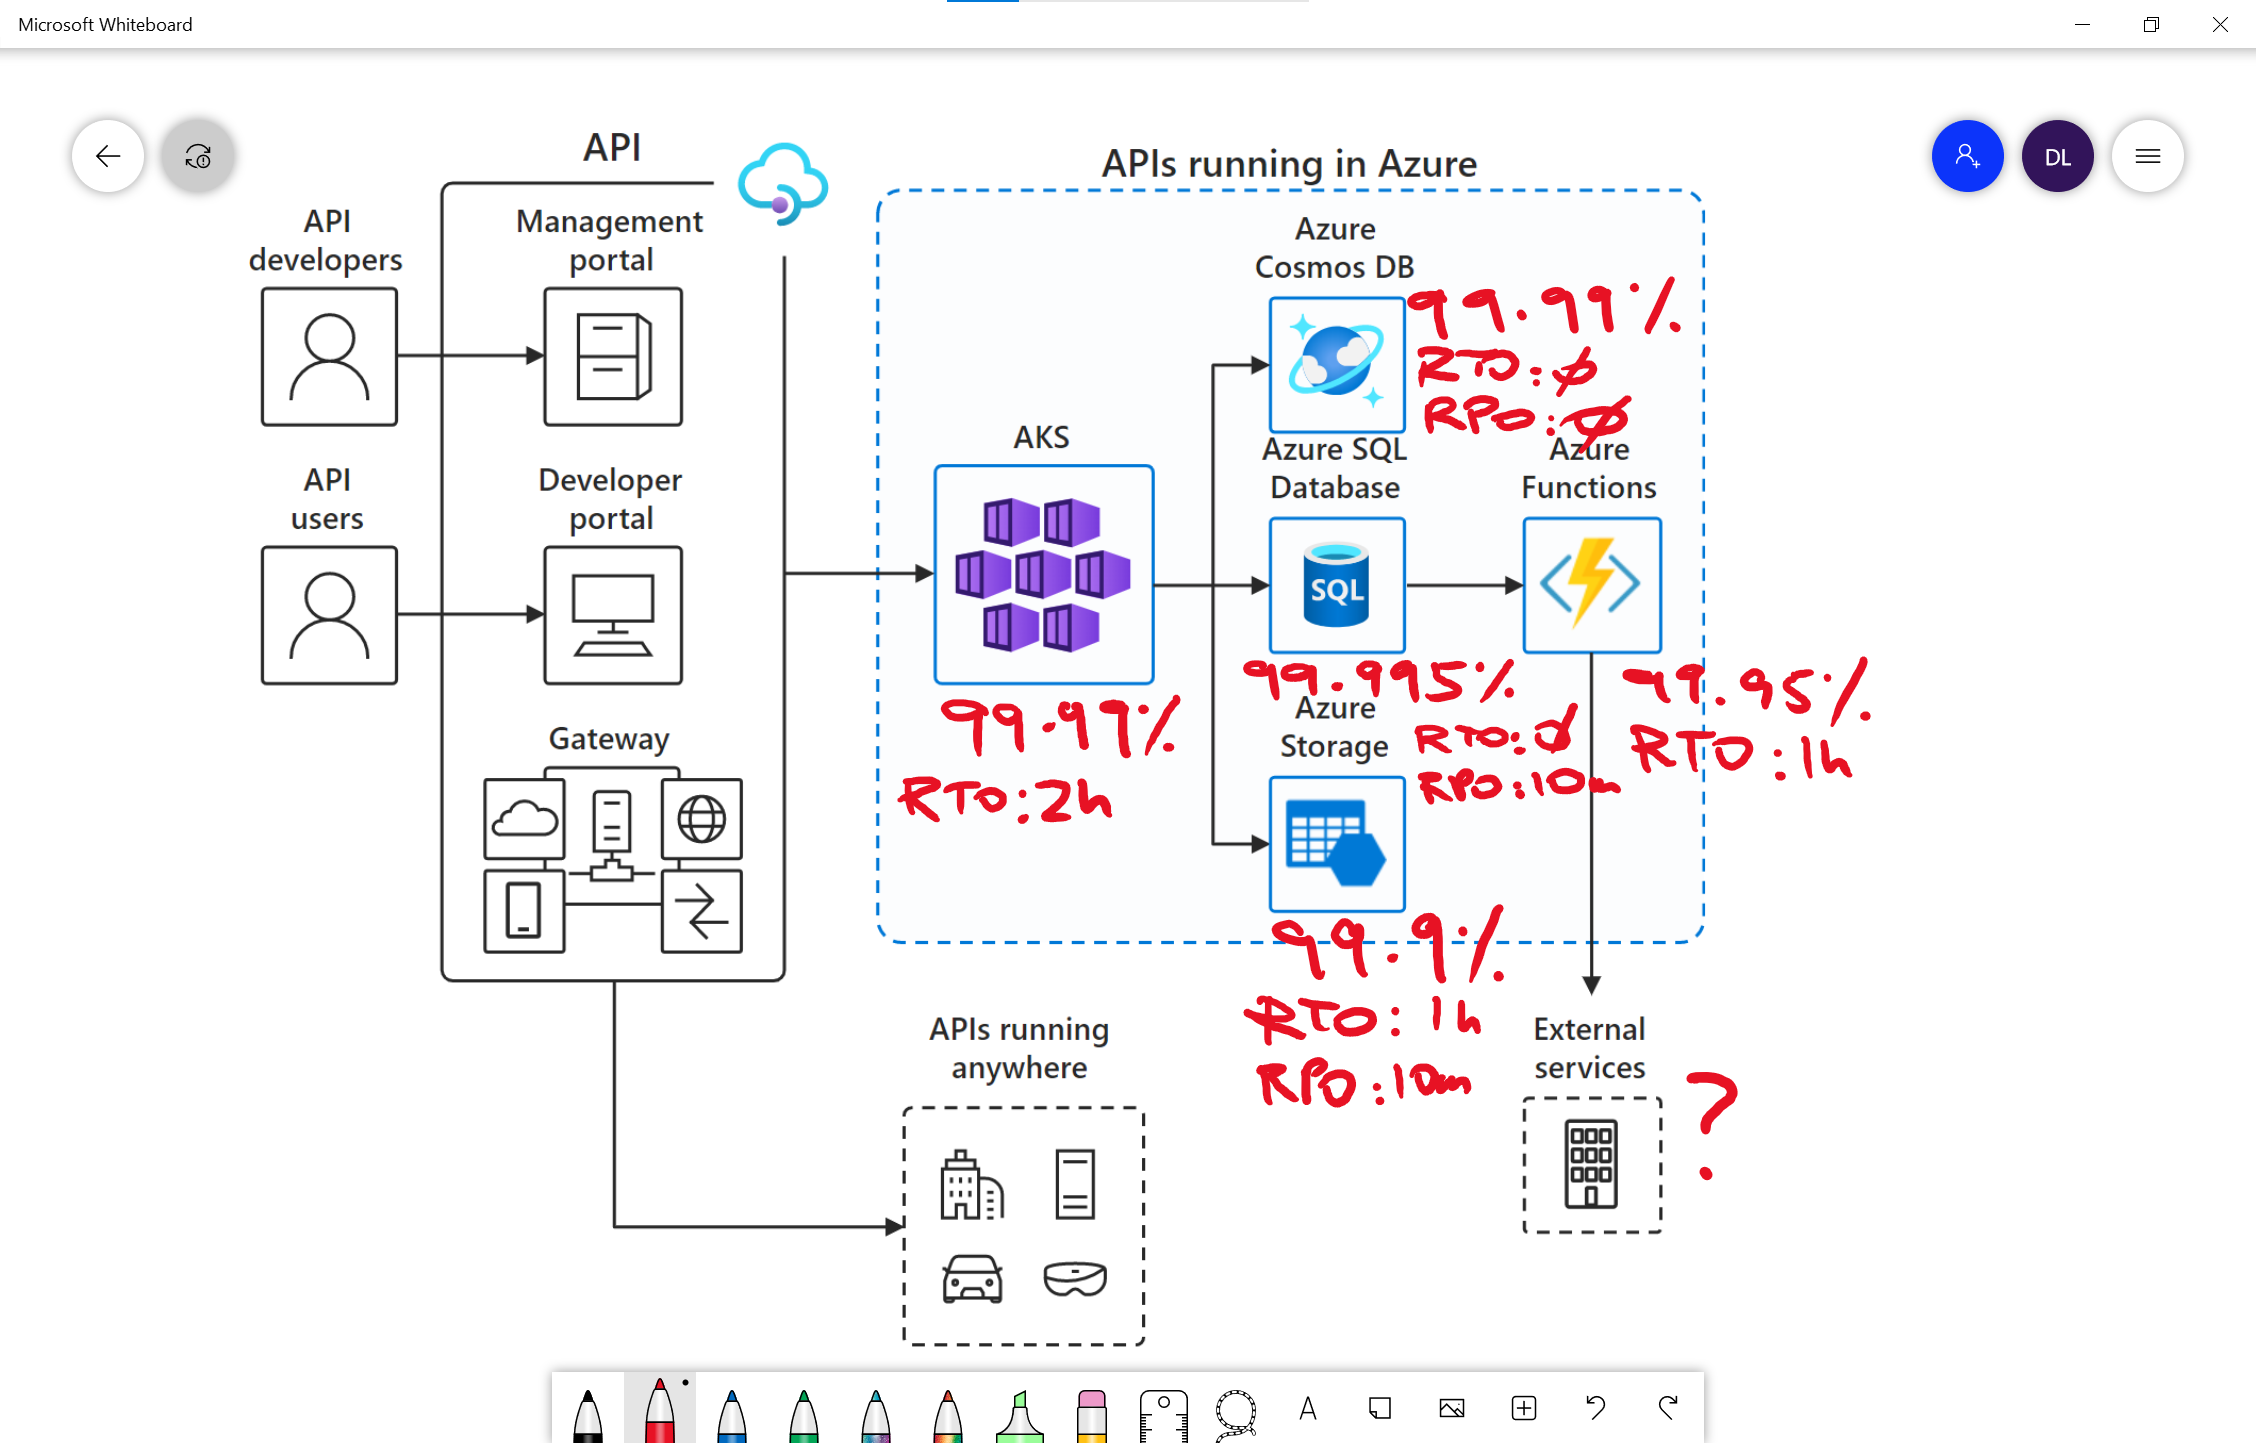
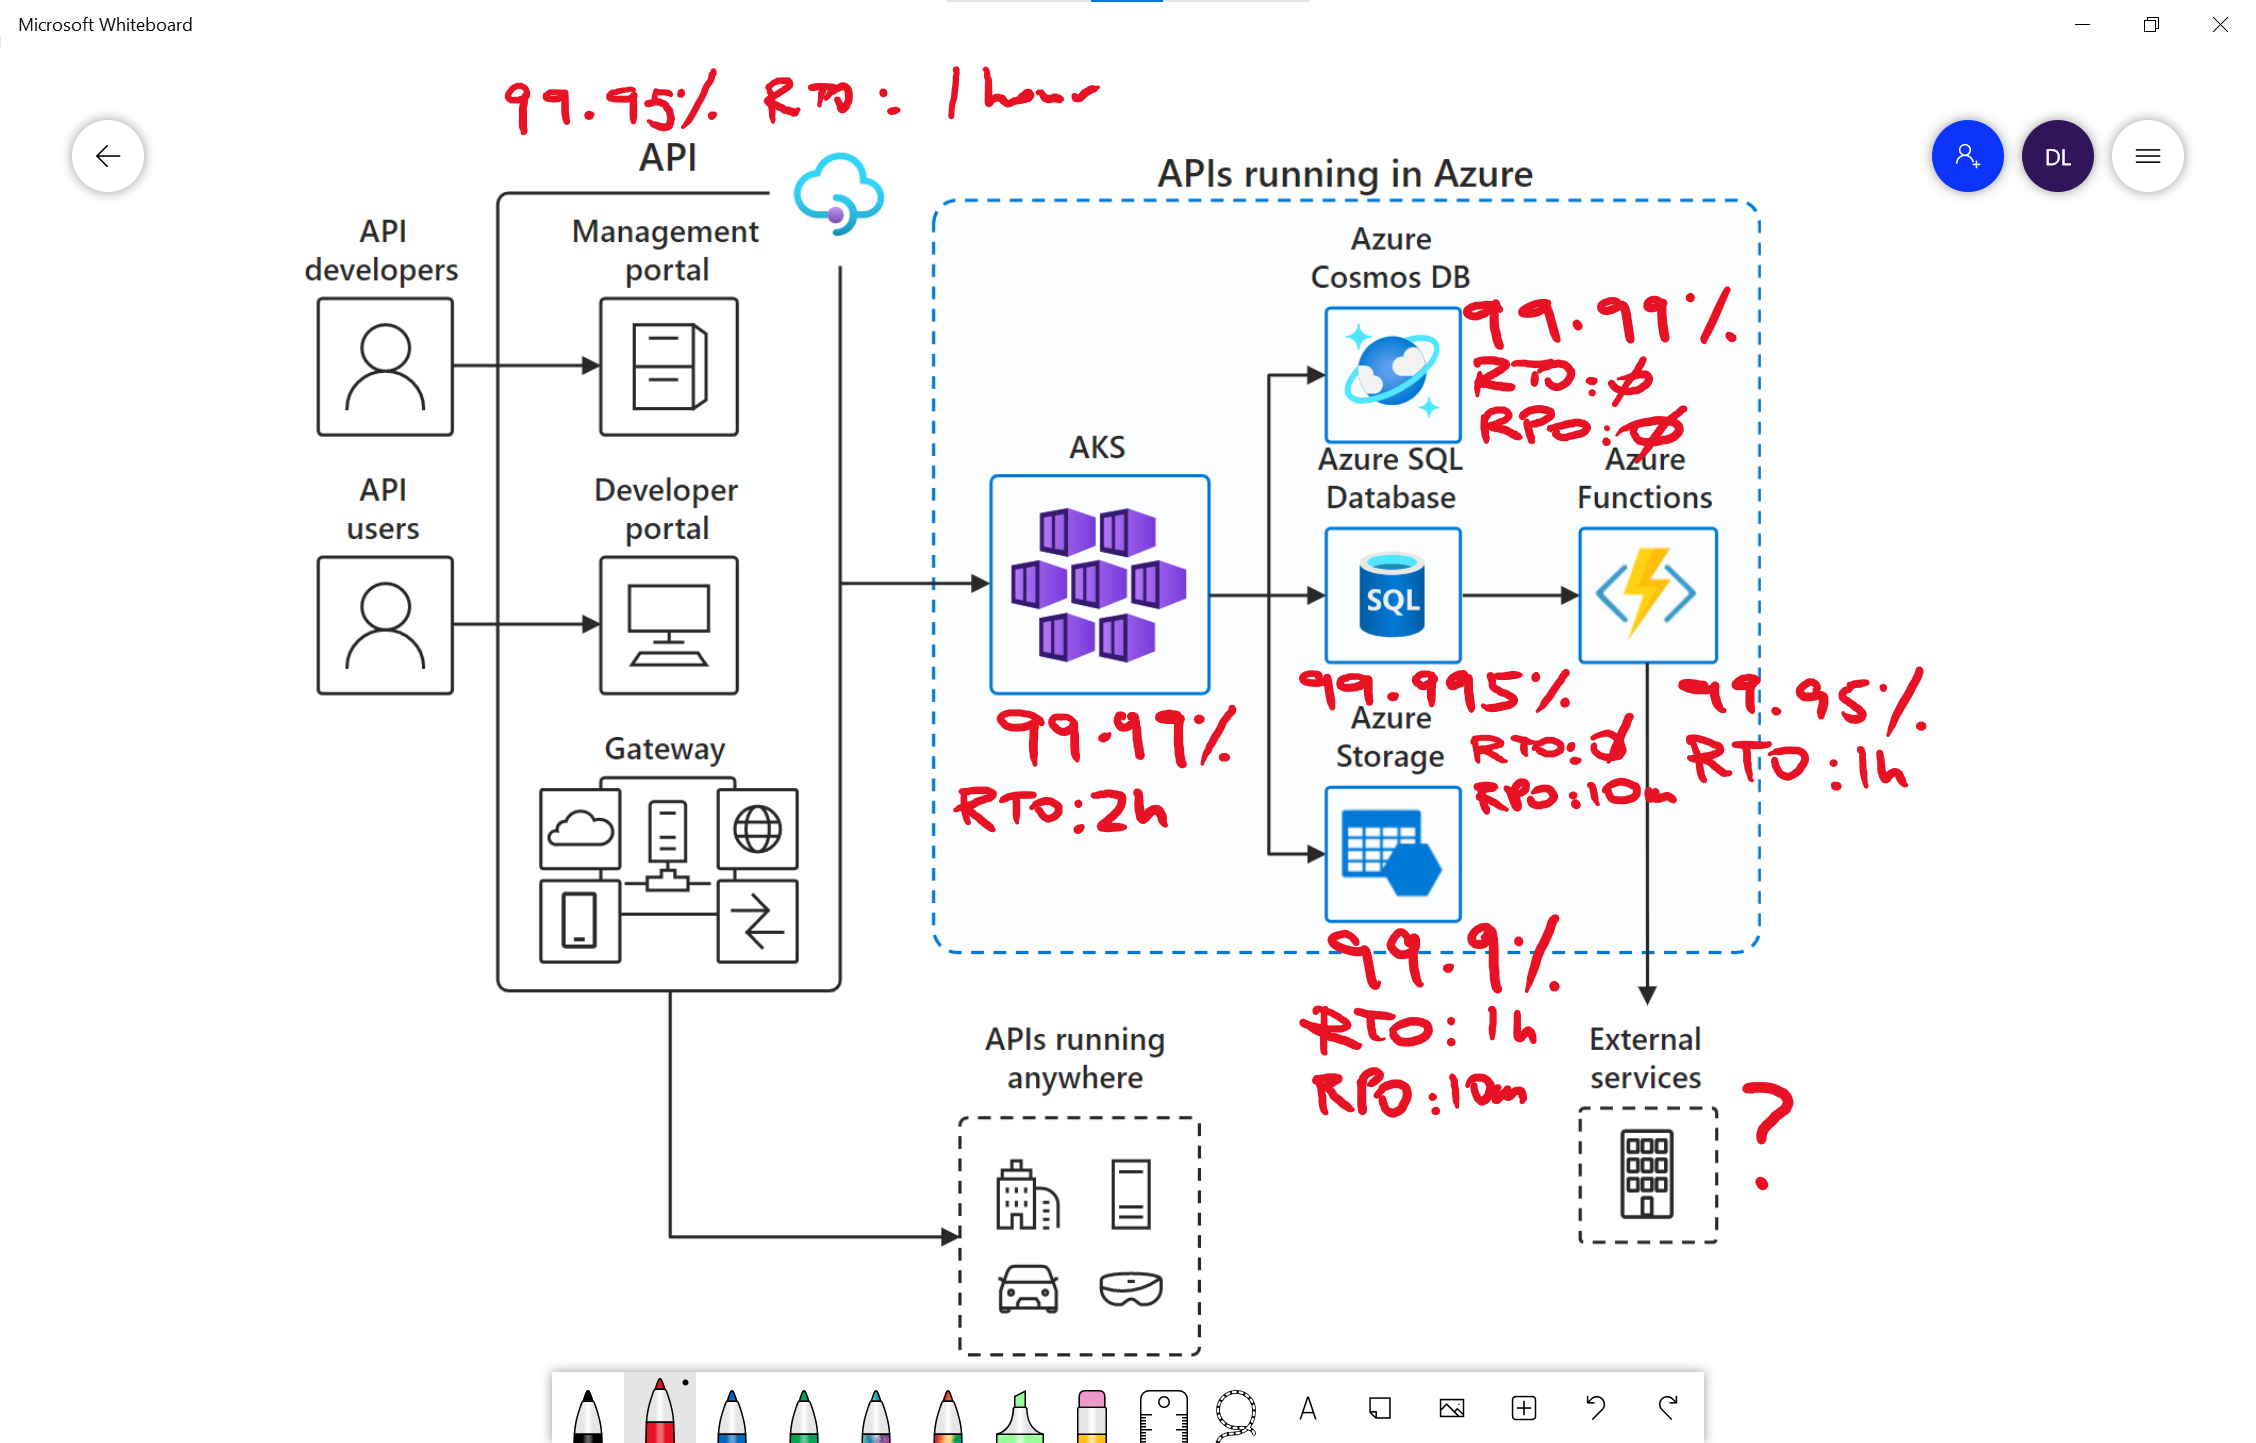
More reliability

Changed region(s): [[0.0, 0.0312, 1.0, 0.8732], [0.2793, 0.6861, 0.5275, 0.9356]]

diff --git a/docs/reliability.md b/docs/reliability.md
@@ -76,9 +76,19 @@ Once the target SLA requirements have been determined an _Architecture review_ s
 
 It is important to review the SLA's of the solution as a whole, as well as the SLA's for individual services. Annotate the solution architecture diagram with SLA, RTO and RPO for all components. Single points of failure should be called out, and the composite SLA for the solution should be calculated by combining the SLA for each service.
 
-![Annotated AKS API First reference architecture](./images/annotated-aks-api-first.png)
+As an example, the [API-first SaaS business model] reference architecture has been annotated with uptime, RTO and RPO figures below.
 
-For example, the uptime SLA's for each component in the _critical path_ of a solution should be multiplied together to calculate the _composite SLA_. 
+![Annotated AKS API First reference architecture](./images/annotated-aks-api-first.png) <br/> _Figure: Annotated API-first SaaS business model reference architecture_
+
+The uptime SLA's for each component in the _critical path_ of a solution should be multiplied together to calculate the _composite SLA_.
+
+**Q. What is the composite uptime SLA for the solution above?** (From the point of view of an API user)
+
+1. 99.995%?
+1. 99.9%?
+1. Less than 99.9%?
+
+How could the uptime be improved?
 
 > 🔨 Use the **[Composite SLO Estimation spreadsheet]** to calculate composite SLO
 
@@ -90,8 +100,9 @@ Azure PaaS services provide _features_ for availability and recovery. Some featu
 
 | Service | HA features | Recovery features | AZ support |
 | ------- | ----------- | ----------------- | ---------- |
-| Azure App Services | <ul><li>[99.95% uptime](https://azure.microsoft.com/en-au/support/legal/sla/app-service/v1_4/)</li><li>[Deployment (Swap) Slots]</li></ul> | [Scheduled backups](https://docs.microsoft.com/en-us/azure/app-service/manage-backup#configure-automated-backups) | Zonal |
+| Azure App Services | <ul><li>[99.95% uptime](https://azure.microsoft.com/en-au/support/legal/sla/app-service/v1_4/)</li><li>[Deployment (Swap) Slots]</li></ul> | [Scheduled backups](https://docs.microsoft.com/en-us/azure/app-service/manage-backup#configure-automated-backups) | [Zonal for ASE's](https://docs.microsoft.com/en-us/azure/app-service/environment/zone-redundancy) |
 | Azure SQL DB | <ul><li>[Uptime SLA](https://azure.microsoft.com/en-au/support/legal/sla/sql-database/v1_4/) of between 99.9% and 99.995% depending on SKU, tier and configuration.</li><li>[Active Geo replication](https://docs.microsoft.com/en-us/azure/azure-sql/database/active-geo-replication-overview)</li><li>[Failover groups](https://docs.microsoft.com/en-us/azure/azure-sql/database/auto-failover-group-overview?tabs=azure-powershell)</li></ul> | [Automated backups and Point in time restore](https://docs.microsoft.com/en-us/azure/azure-sql/database/automated-backups-overview?tabs=single-database) | Zone redundant |
+| Azure API Management | <ul><li>[99.95% uptime SLA](https://azure.microsoft.com/en-au/support/legal/sla/api-management/v1_4/)</li><li>99.99% uptime with [multi-region deployment](https://docs.microsoft.com/en-us/azure/api-management/api-management-howto-deploy-multi-region)</li></ul> | [Backup & restore](https://docs.microsoft.com/en-us/azure/api-management/api-management-howto-disaster-recovery-backup-restore) | 
 
 
 
@@ -149,3 +160,4 @@ In the [Cloud Design Patterns] section of this 1:many session you were introduce
 [Composite SLO Estimation spreadsheet]:/tools/Composite_SLO_Estimation_Tool.xlsx
 [Zonal or zone-redundant architecture]:https://docs.microsoft.com/en-us/azure/architecture/high-availability/building-solutions-for-high-availability#zonal-vs-zone-redundant-architecture
 [Deployment (Swap) Slots]:https://docs.microsoft.com/en-us/azure/app-service/deploy-staging-slots#swap-two-slots
+[API-first SaaS business model]:https://docs.microsoft.com/en-us/azure/architecture/solution-ideas/articles/aks-api-first
